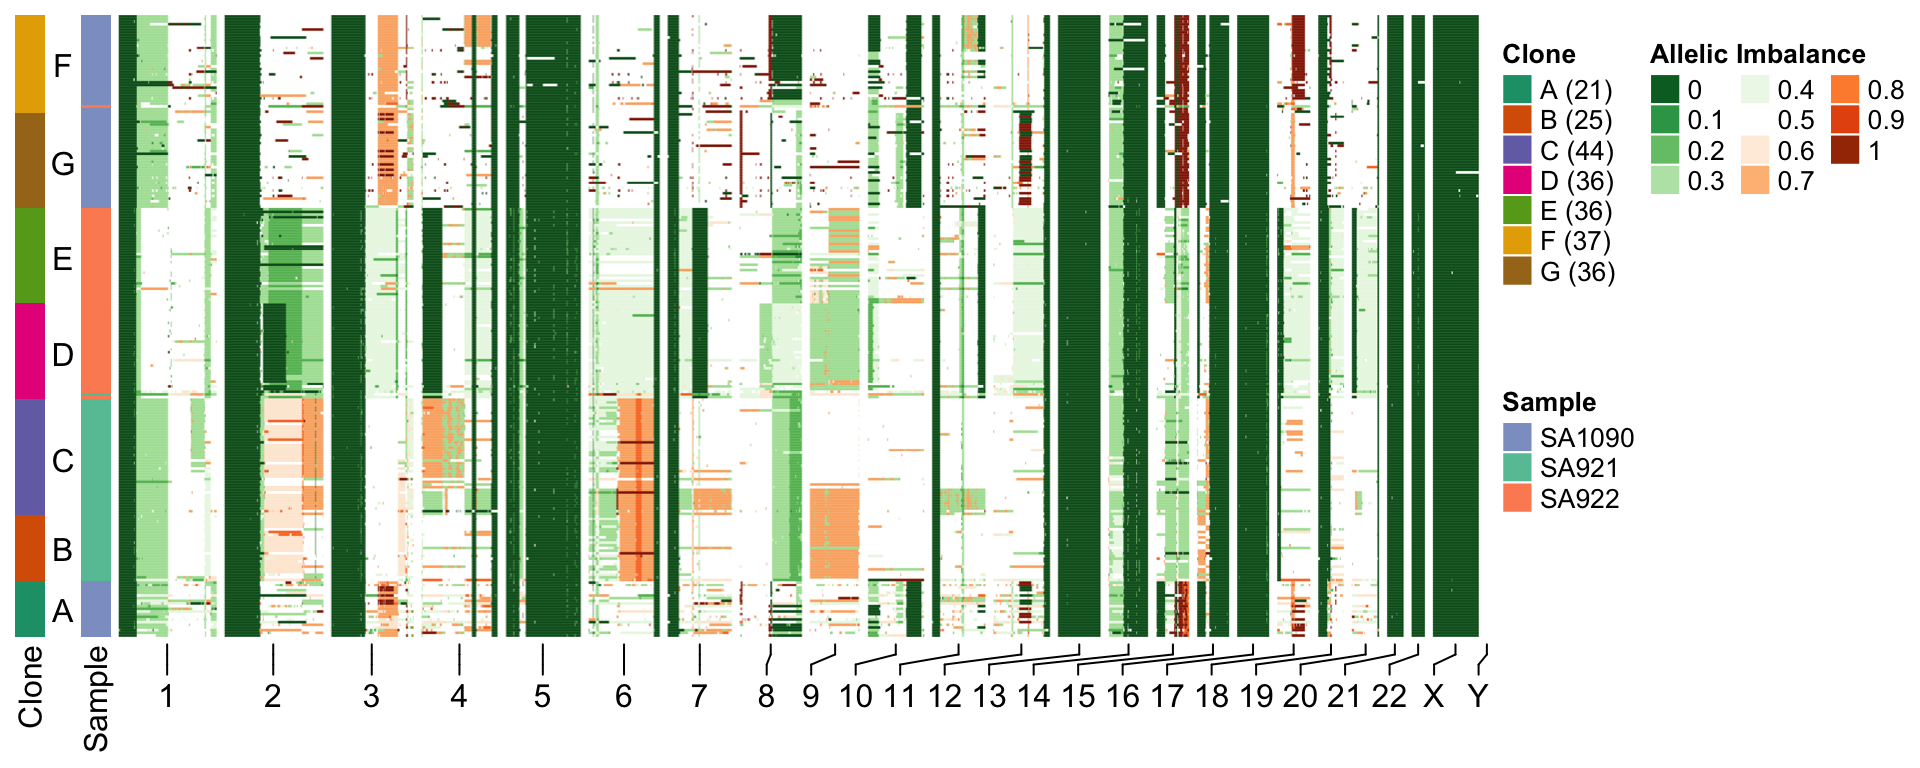
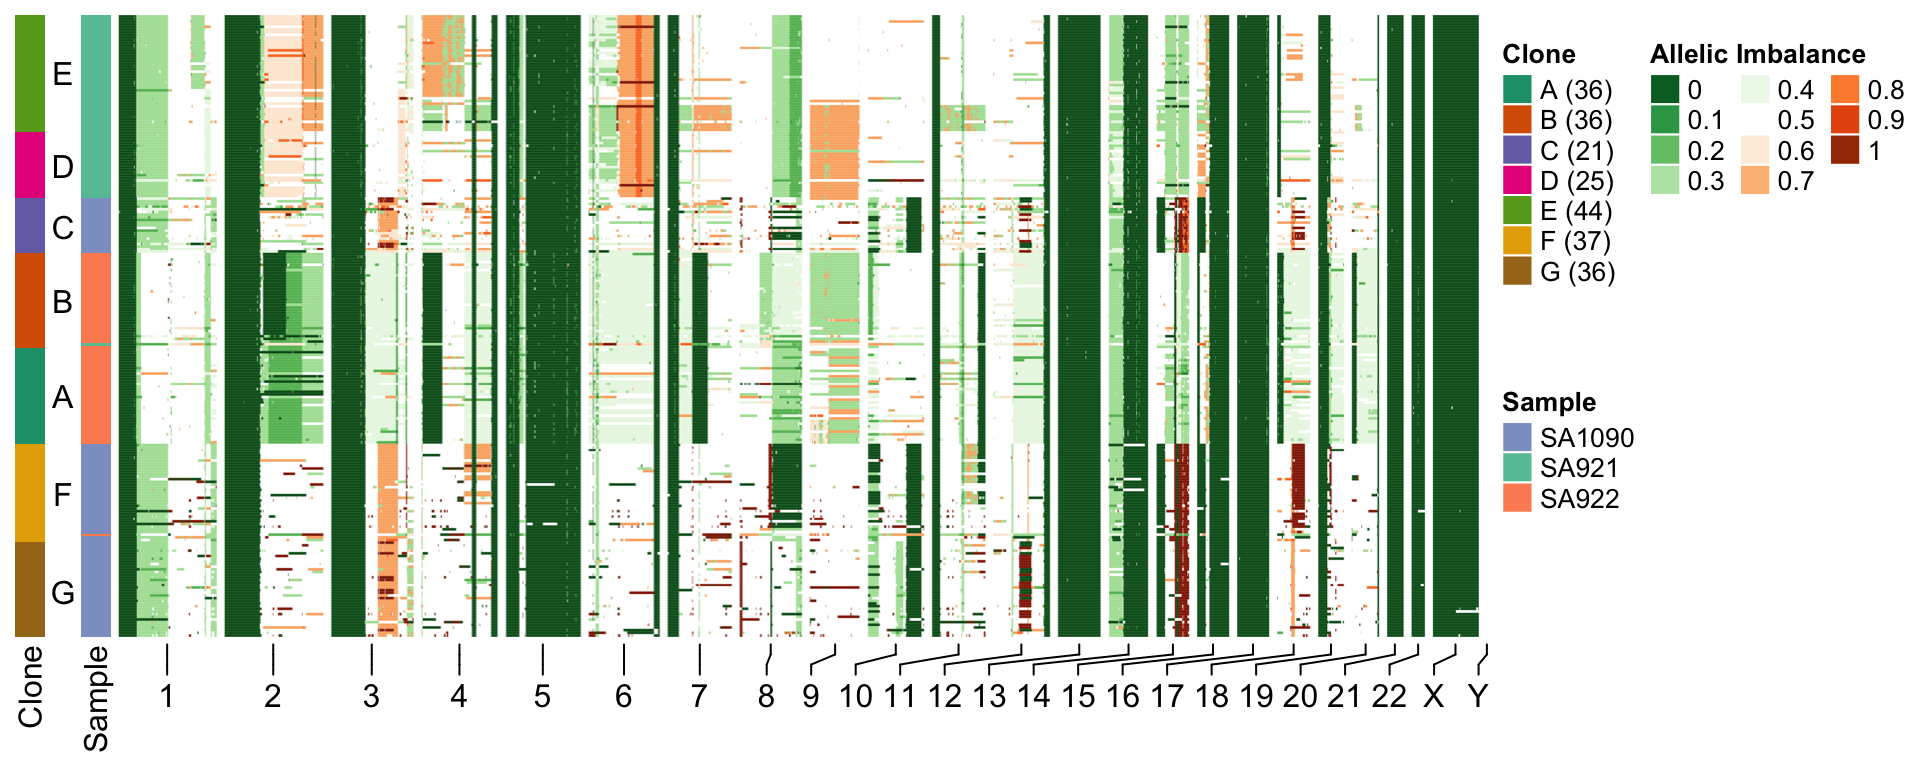
Built site for schnapps: 0.1.0@8edb04f

Changed region(s): [[0.0, 0.0, 0.7188, 0.8438], [0.8125, 0.0938, 0.8438, 0.2812], [0.0625, 0.375, 0.0938, 0.4062]]

diff --git a/articles/BetaBinom.html b/articles/BetaBinom.html
@@ -102,8 +102,8 @@
 <span class="no">haplotypes</span> <span class="kw">&lt;-</span> <span class="fu">format_haplotypes_dlp</span>(<span class="no">haplotypes</span>, <span class="no">CNbins</span>)
 <span class="no">hscn</span> <span class="kw">&lt;-</span> <span class="fu"><a href="../reference/callHaplotypeSpecificCN.html">callHaplotypeSpecificCN</a></span>(<span class="no">CNbins</span>, <span class="no">haplotypes</span>, <span class="kw">likelihood</span> <span class="kw">=</span> <span class="st">"binomial"</span>)
 <span class="co">#&gt; </span>
-<span class="co">#&gt;  A  B  C </span>
-<span class="co">#&gt; 90 72 73</span>
+<span class="co">#&gt;  A  B  C  D </span>
+<span class="co">#&gt; 90 72 37 36</span>
 
 <span class="fu"><a href="https://rdrr.io/r/base/print.html">print</a></span>(<span class="no">hscn</span>)
 <span class="co">#&gt; Haplotype specific copy number object </span>
@@ -144,7 +144,7 @@
 <div class="sourceCode" id="cb3"><html><body><pre class="r"><span class="fu">plotHeatmap</span>(<span class="no">hscn</span>, <span class="kw">plotcol</span> <span class="kw">=</span> <span class="st">"state_BAF"</span>, <span class="kw">plottree</span> <span class="kw">=</span> <span class="fl">FALSE</span>, <span class="kw">spacer_cols</span> <span class="kw">=</span> <span class="fl">15</span>)
 <span class="co">#&gt; </span>
 <span class="co">#&gt;  A  B  C  D  E  F  G </span>
-<span class="co">#&gt; 21 25 44 36 36 37 36</span></pre></body></html></div>
+<span class="co">#&gt; 36 36 21 25 44 37 36</span></pre></body></html></div>
 <p><img src="BetaBinom_files/figure-html/unnamed-chunk-3-1.png" width="960"></p>
 </div>
 <div id="beta-binomial-model" class="section level3">
@@ -164,26 +164,44 @@
 <p><img src="BetaBinom_files/figure-html/unnamed-chunk-5-1.png" width="960"></p>
 <p>We can check how similar the results are by comparing the two dataframes. We find for this data that the results are almost identical.</p>
 <div class="sourceCode" id="cb6"><html><body><pre class="r"><span class="fu"><a href="https://rdrr.io/r/base/print.html">print</a></span>(<span class="fu"><a href="https://rdrr.io/r/base/dim.html">dim</a></span>(<span class="no">hscn</span>$<span class="no">data</span>))
-<span class="co">#&gt; [1] 507878     19</span>
+<span class="co">#&gt; [1] 507868     19</span>
 <span class="fu"><a href="https://rdrr.io/r/base/print.html">print</a></span>(<span class="fu"><a href="https://rdrr.io/r/base/dim.html">dim</a></span>(<span class="no">hscn_bb</span>$<span class="no">data</span>))
 <span class="co">#&gt; [1] 507878     19</span>
 <span class="fu"><a href="https://rdrr.io/r/base/all.equal.html">all.equal</a></span>(<span class="fu">orderdf</span>(<span class="no">hscn</span>$<span class="no">data</span>), <span class="fu">orderdf</span>(<span class="no">hscn_bb</span>$<span class="no">data</span>))
-<span class="co">#&gt; [1] "Component \"state_min\": Mean relative difference: 0.5656796"</span>
-<span class="co">#&gt; [2] "Component \"Maj\": Mean relative difference: 0.353654"       </span>
-<span class="co">#&gt; [3] "Component \"Min\": Mean relative difference: 0.5027547"      </span>
-<span class="co">#&gt; [4] "Component \"state_AS_phased\": 5590 string mismatches"       </span>
-<span class="co">#&gt; [5] "Component \"state_AS\": 1629 string mismatches"              </span>
-<span class="co">#&gt; [6] "Component \"LOH\": 1619 string mismatches"                   </span>
-<span class="co">#&gt; [7] "Component \"phase\": 3393 string mismatches"                 </span>
-<span class="co">#&gt; [8] "Component \"state_phase\": 4599 string mismatches"           </span>
-<span class="co">#&gt; [9] "Component \"state_BAF\": Mean relative difference: 0.6659303"</span></pre></body></html></div>
+<span class="co">#&gt;  [1] "Attributes: &lt; Component \"row.names\": Numeric: lengths (507869, 507879) differ &gt;"              </span>
+<span class="co">#&gt;  [2] "Component \"chr\": Lengths (507869, 507879) differ (string compare on first 507869)"            </span>
+<span class="co">#&gt;  [3] "Component \"chr\": 34550 string mismatches"                                                     </span>
+<span class="co">#&gt;  [4] "Component \"start\": Numeric: lengths (507869, 507879) differ"                                  </span>
+<span class="co">#&gt;  [5] "Component \"end\": Numeric: lengths (507869, 507879) differ"                                    </span>
+<span class="co">#&gt;  [6] "Component \"cell_id\": Lengths (507869, 507879) differ (string compare on first 507869)"        </span>
+<span class="co">#&gt;  [7] "Component \"cell_id\": 'is.NA' value mismatch: 0 in current 1 in target"                        </span>
+<span class="co">#&gt;  [8] "Component \"state\": Numeric: lengths (507869, 507879) differ"                                  </span>
+<span class="co">#&gt;  [9] "Component \"copy\": Numeric: lengths (507869, 507879) differ"                                   </span>
+<span class="co">#&gt; [10] "Component \"alleleA\": Numeric: lengths (507869, 507879) differ"                                </span>
+<span class="co">#&gt; [11] "Component \"alleleB\": Numeric: lengths (507869, 507879) differ"                                </span>
+<span class="co">#&gt; [12] "Component \"totalcounts\": Numeric: lengths (507869, 507879) differ"                            </span>
+<span class="co">#&gt; [13] "Component \"BAF\": Numeric: lengths (507869, 507879) differ"                                    </span>
+<span class="co">#&gt; [14] "Component \"state_min\": Numeric: lengths (507869, 507879) differ"                              </span>
+<span class="co">#&gt; [15] "Component \"Maj\": Numeric: lengths (507869, 507879) differ"                                    </span>
+<span class="co">#&gt; [16] "Component \"Min\": Numeric: lengths (507869, 507879) differ"                                    </span>
+<span class="co">#&gt; [17] "Component \"state_AS_phased\": Lengths (507869, 507879) differ (string compare on first 507869)"</span>
+<span class="co">#&gt; [18] "Component \"state_AS_phased\": 'is.NA' value mismatch: 0 in current 1 in target"                </span>
+<span class="co">#&gt; [19] "Component \"state_AS\": Lengths (507869, 507879) differ (string compare on first 507869)"       </span>
+<span class="co">#&gt; [20] "Component \"state_AS\": 'is.NA' value mismatch: 0 in current 1 in target"                       </span>
+<span class="co">#&gt; [21] "Component \"LOH\": Lengths (507869, 507879) differ (string compare on first 507869)"            </span>
+<span class="co">#&gt; [22] "Component \"LOH\": 'is.NA' value mismatch: 0 in current 1 in target"                            </span>
+<span class="co">#&gt; [23] "Component \"phase\": Lengths (507869, 507879) differ (string compare on first 507869)"          </span>
+<span class="co">#&gt; [24] "Component \"phase\": 'is.NA' value mismatch: 0 in current 1 in target"                          </span>
+<span class="co">#&gt; [25] "Component \"state_phase\": Lengths (507869, 507879) differ (string compare on first 507869)"    </span>
+<span class="co">#&gt; [26] "Component \"state_phase\": 'is.NA' value mismatch: 0 in current 1 in target"                    </span>
+<span class="co">#&gt; [27] "Component \"state_BAF\": Numeric: lengths (507869, 507879) differ"</span></pre></body></html></div>
 <p>Another thing we can check is the total number of segments identified by the HMM. Using the beta-binomial model should reduce the influence of any noisy regions and thus we might expect fewer segments. We do observe fewer segments but the difference is minimal.</p>
 <div class="sourceCode" id="cb7"><html><body><pre class="r"><span class="no">segs</span> <span class="kw">&lt;-</span> <span class="fu">create_segments</span>(<span class="no">hscn</span>$<span class="no">data</span>, <span class="kw">field</span> <span class="kw">=</span> <span class="st">"state_AS_phased"</span>)
 
 <span class="no">segs_bb</span> <span class="kw">&lt;-</span> <span class="fu">create_segments</span>(<span class="no">hscn_bb</span>$<span class="no">data</span>, <span class="kw">field</span> <span class="kw">=</span> <span class="st">"state_AS_phased"</span>)
 
 <span class="fu"><a href="https://rdrr.io/r/base/print.html">print</a></span>(<span class="fu"><a href="https://rdrr.io/r/base/dim.html">dim</a></span>(<span class="no">segs</span>))
-<span class="co">#&gt; [1] 34555     5</span>
+<span class="co">#&gt; [1] 34618     5</span>
 <span class="fu"><a href="https://rdrr.io/r/base/print.html">print</a></span>(<span class="fu"><a href="https://rdrr.io/r/base/dim.html">dim</a></span>(<span class="no">segs_bb</span>))
 <span class="co">#&gt; [1] 31142     5</span></pre></body></html></div>
 </div>
